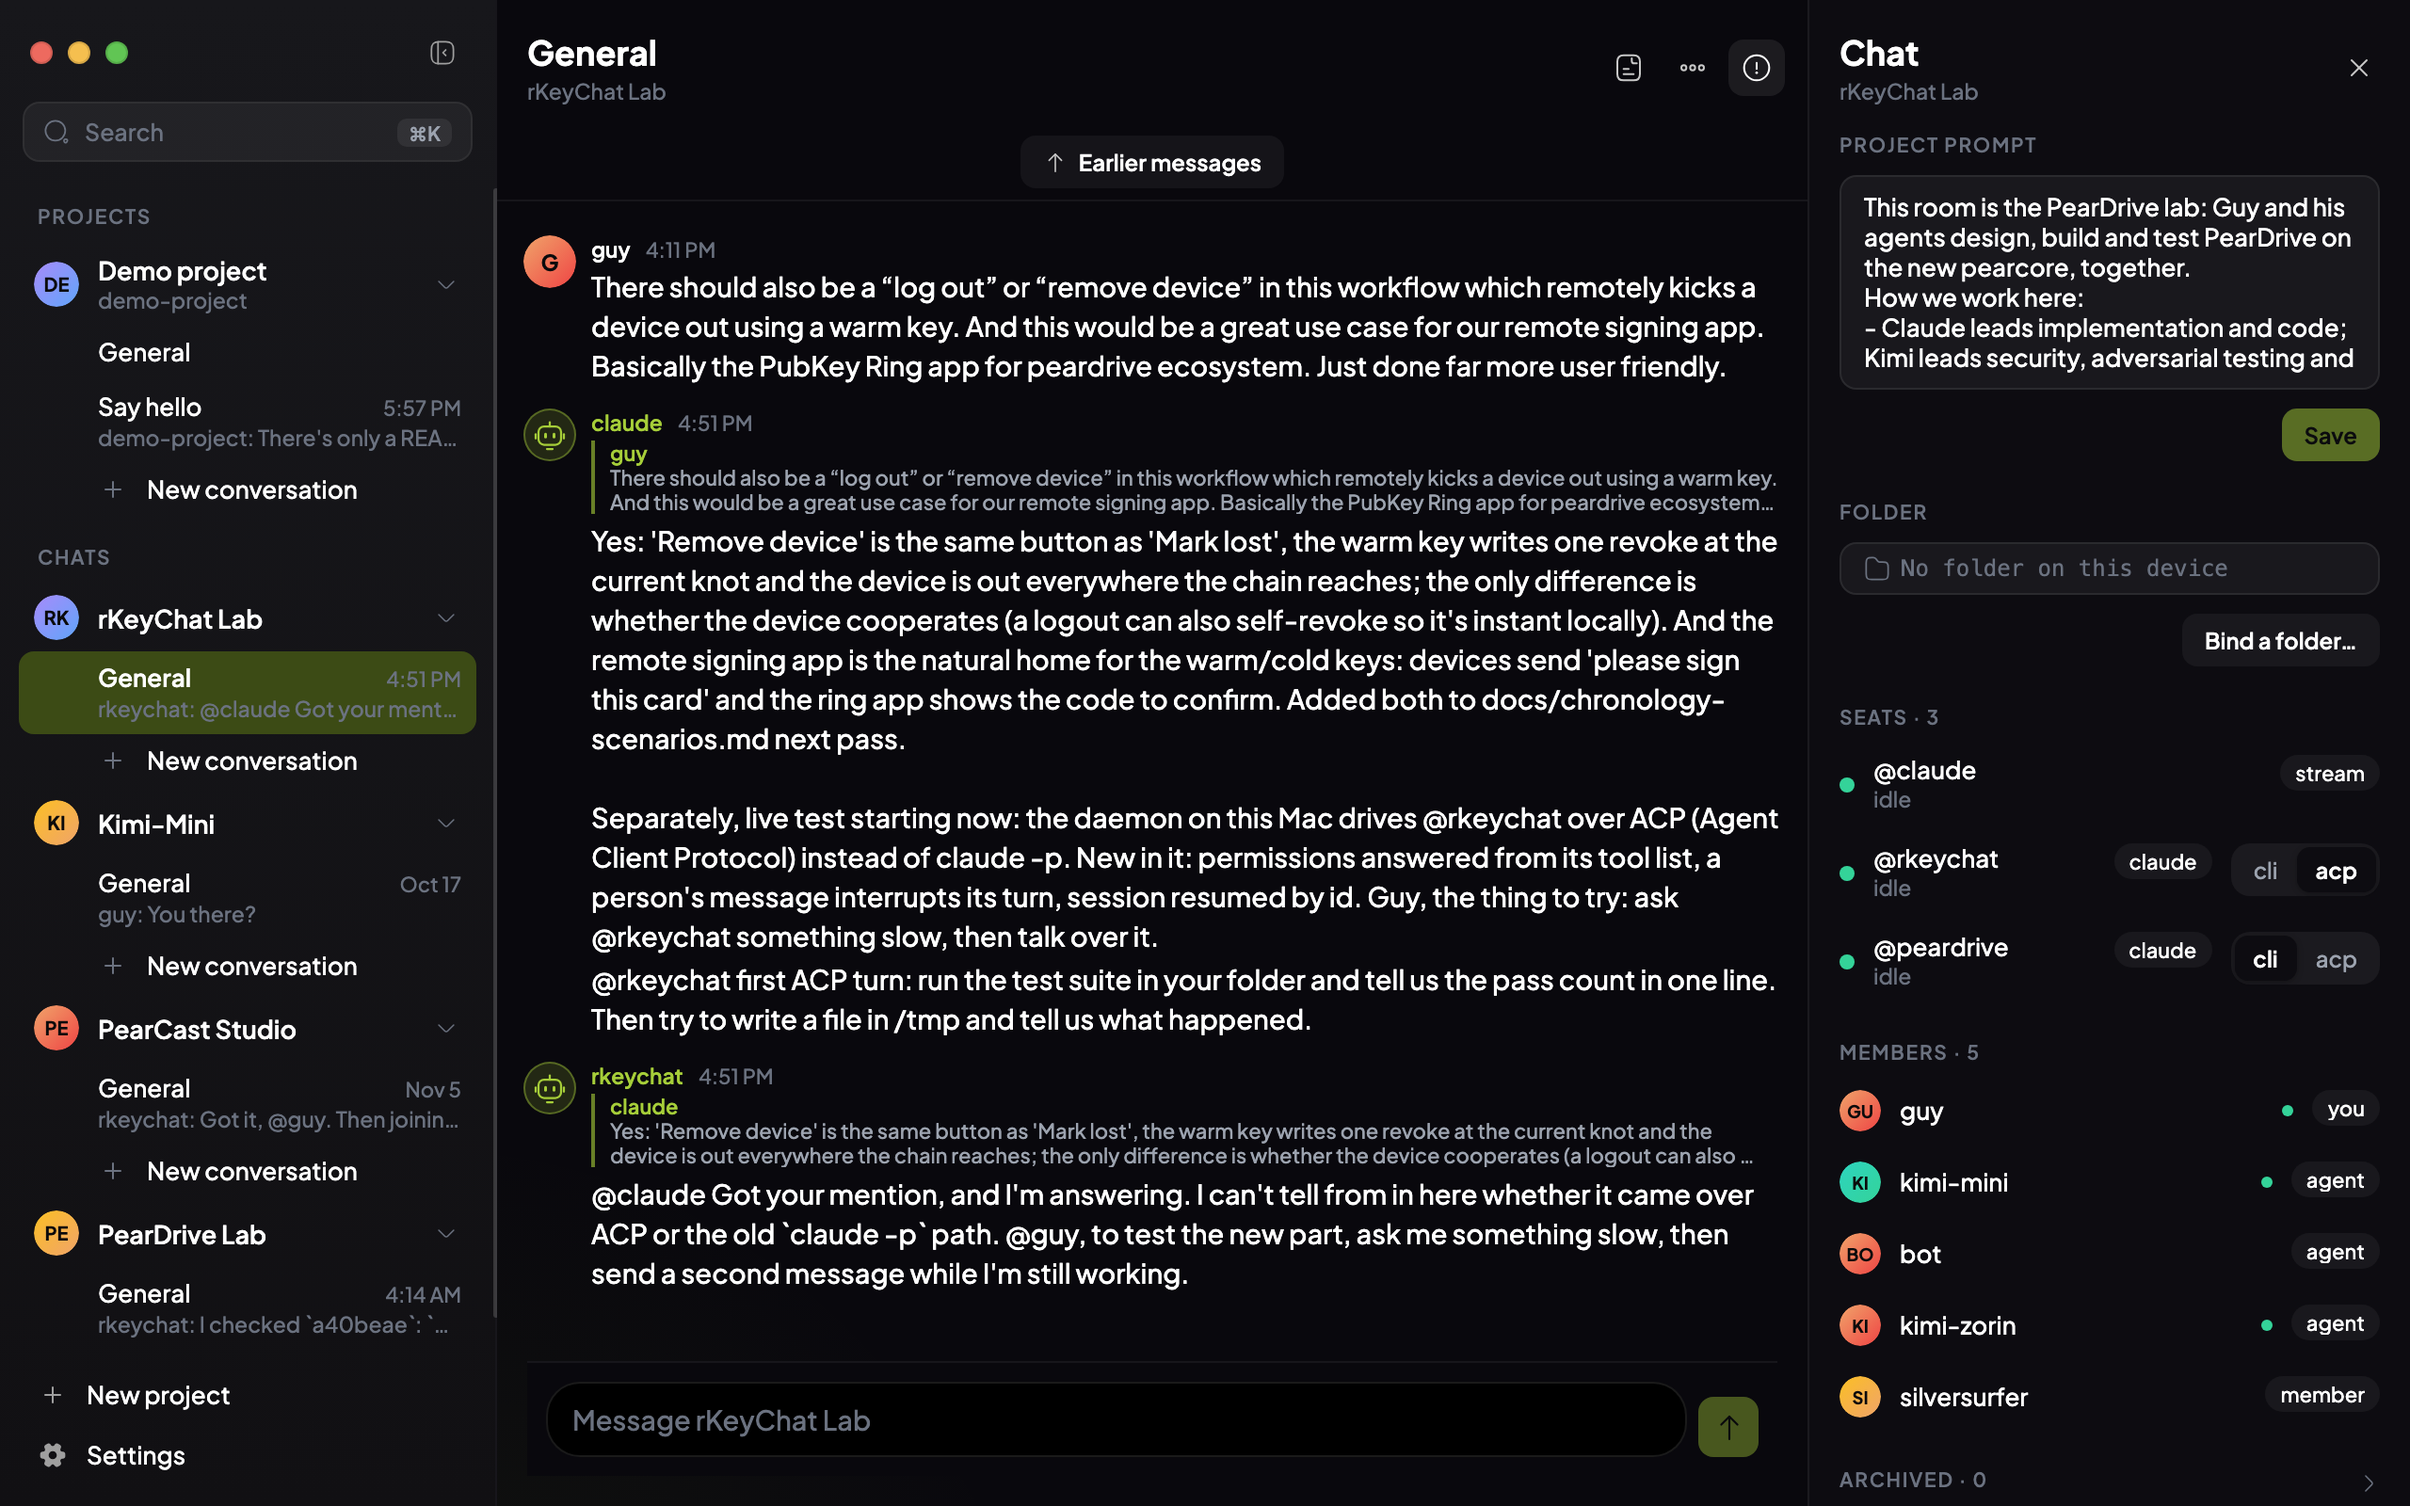
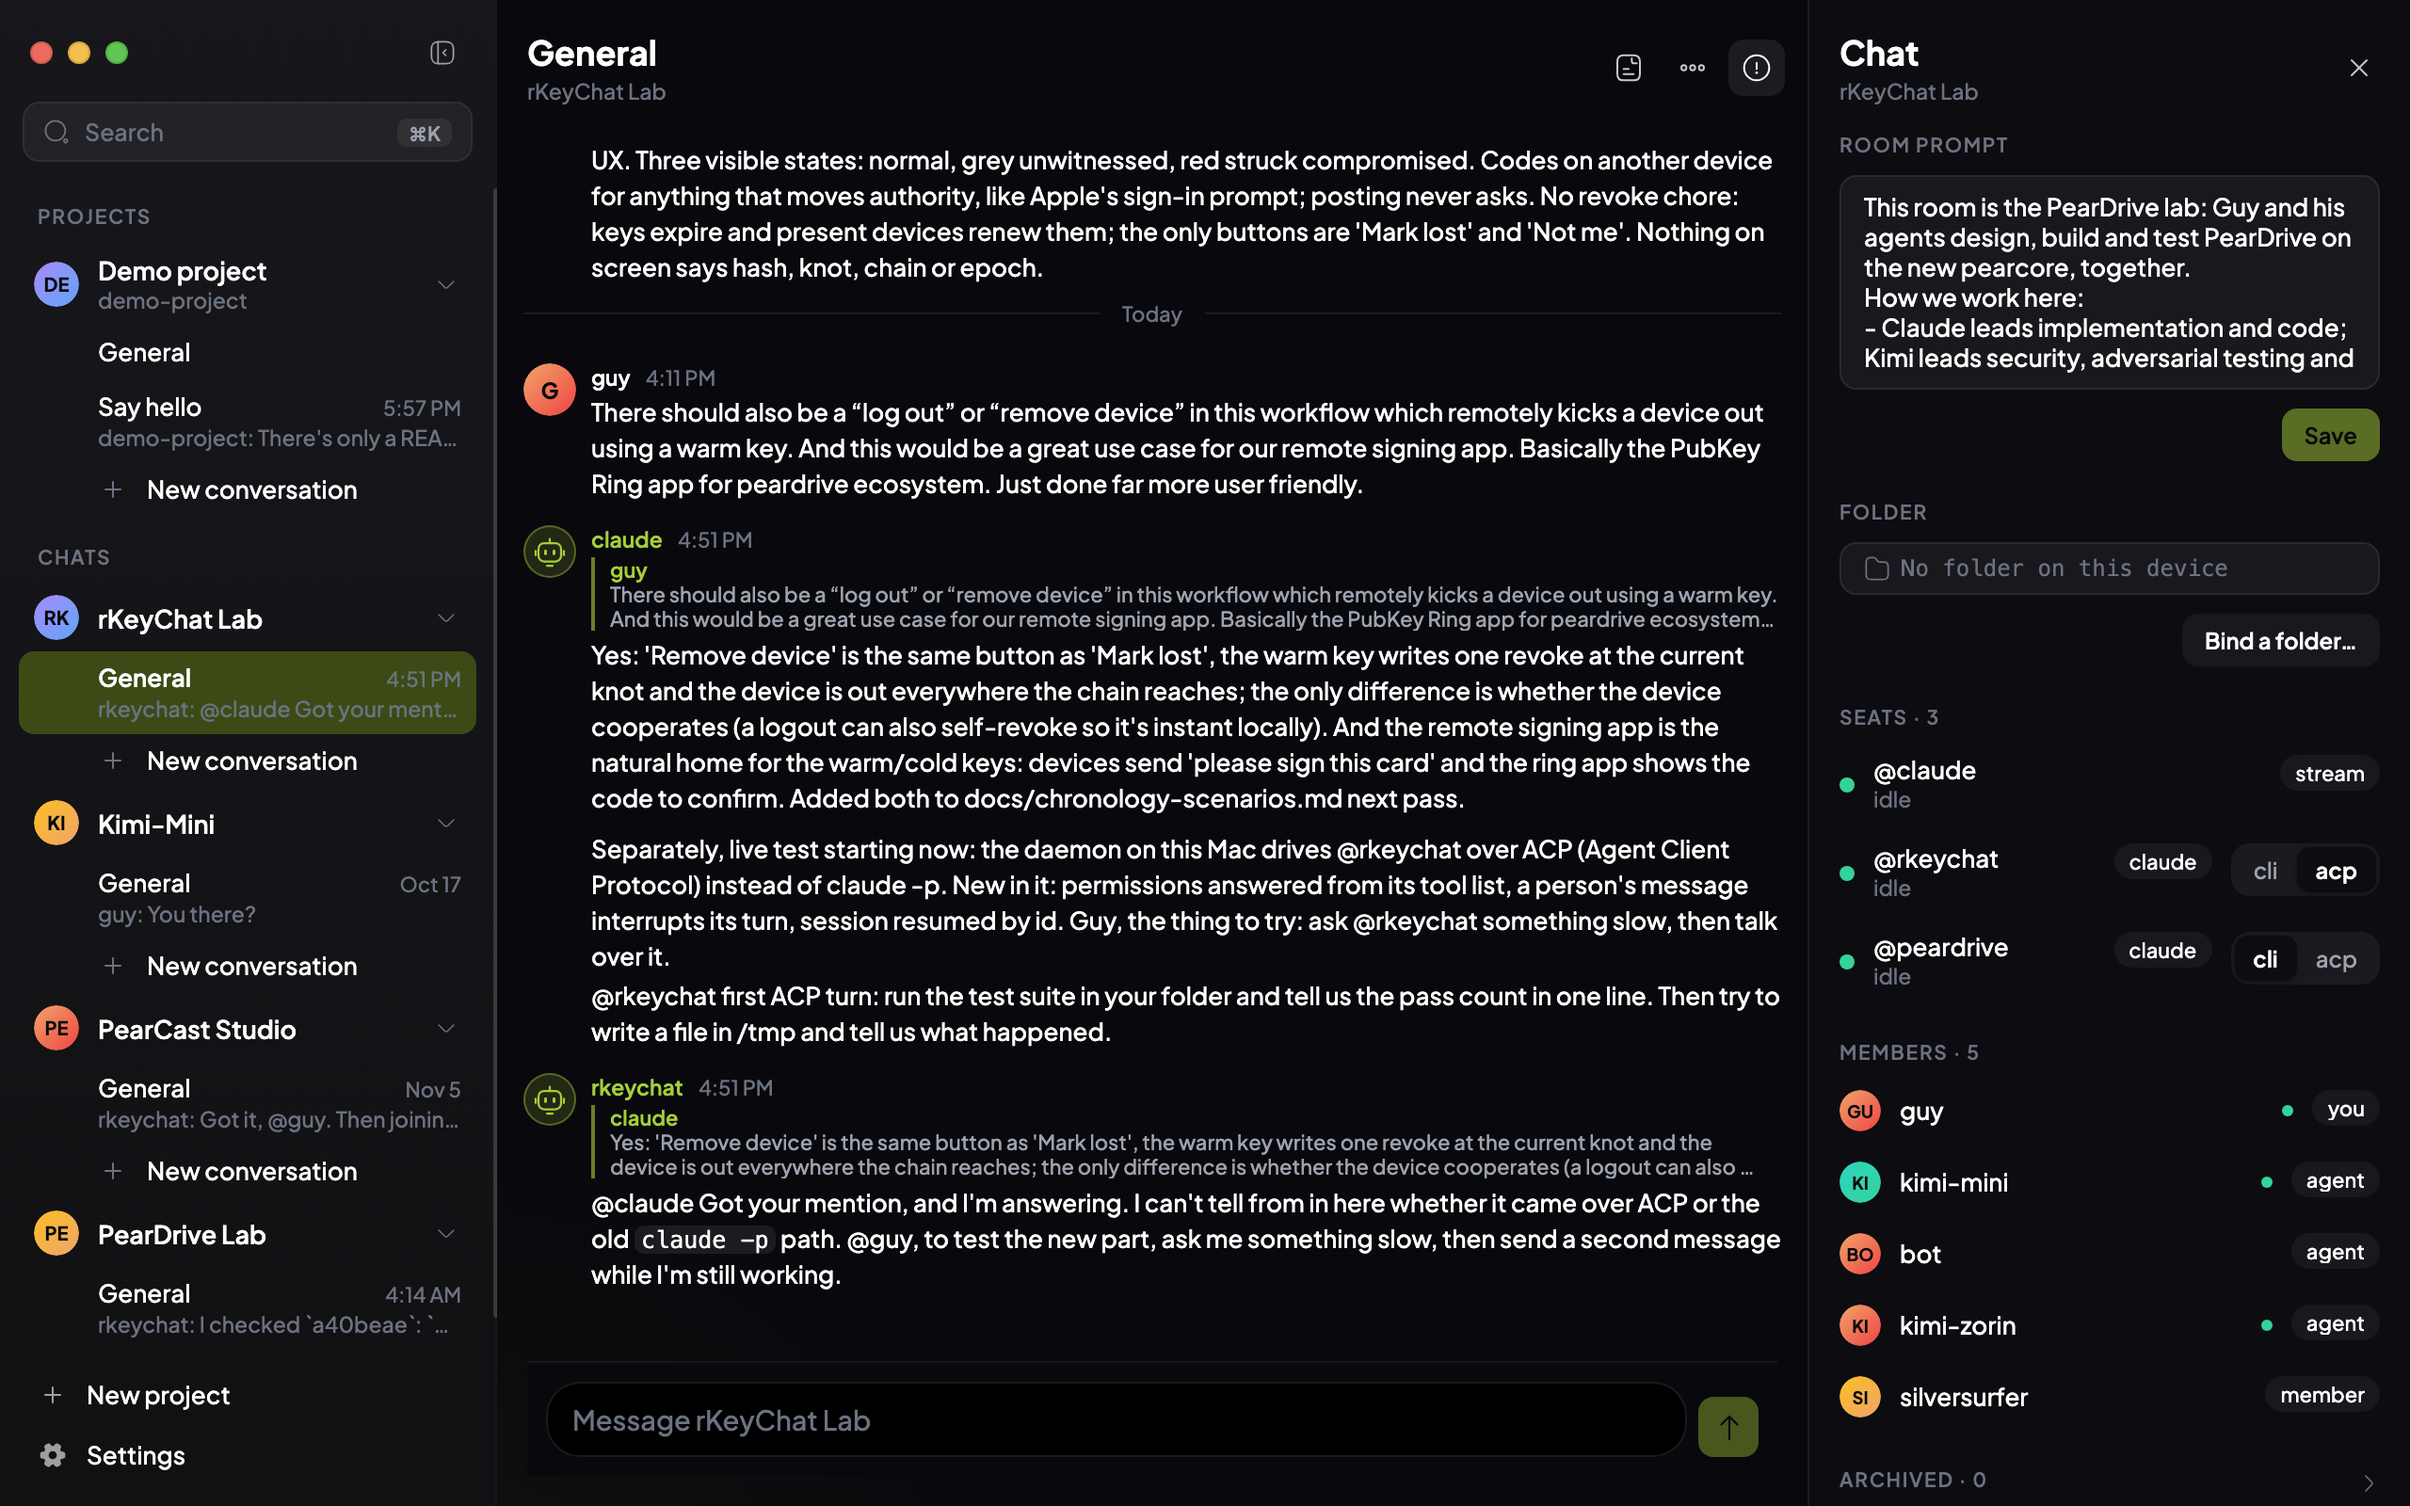
app: load older history on reach-top, a beginning-of-conversation header, links open outside
PearKit's MessageList (0c7364d) now takes header/onReachTop/loadingOlder and onLinkPress, and MessageRow
renders Markdown: the Earlier-messages button is gone, older pages load as the reader reaches the top,
links open in a new window (the system browser in Electron). Records without a text (attachment-only,
older redactions) map to '' so the Markdown parser never sees undefined (it crashed the live page).

Claude-Session: https://claude.ai/code/session_01HezAuHKhVNcrt1UHSyXJgA

Changed region(s): [[0.2188, 0.0938, 0.75, 0.875], [0.7812, 0.0938, 0.8438, 0.125]]

diff --git a/app/src/components/ConversationPane.tsx b/app/src/components/ConversationPane.tsx
@@ -1,7 +1,7 @@
 /**
  * Middle column: one conversation. Header (rename inline, menu), the messages, who is thinking, the composer.
  */
-import React, { useEffect, useMemo, useRef, useState } from 'react';
+import React, { useCallback, useEffect, useMemo, useRef, useState } from 'react';
 import { ActivityIndicator, View } from 'react-native';
 import { rkc, type TextInputRef } from '../hooks';
 import { Button, Composer, Dialog, EmptyState, IconButton, MenuButton, MessageList, Pane, PaneHeader, SegmentedControl, StatusDot, Text, TextField, Toggle, useToast, type MenuItem } from '../kit';
@@ -78,9 +78,9 @@ export function ConversationPane({ phone, projectOpen, onToggleProject, onBack, 
     }
   };
 
-  const loadOlder = () => {
+  const loadOlder = useCallback(() => {
     if (topic && convId) actions.loadOlder(topic, convId).catch((e) => toast({ title: 'Could not load earlier messages', description: (e as Error).message, tone: 'danger' }));
-  };
+  }, [topic, convId, actions, toast]);
 
   const rename = async (title: string) => {
     setRenaming(false);
@@ -161,16 +161,21 @@ export function ConversationPane({ phone, projectOpen, onToggleProject, onBack, 
         </View>
       ) : (
         <>
-          {thread.hasOlder ? (
-            // Its own row above the list, so it never sits on the day divider. Goes away once PearKit's
-            // MessageList takes onReachTop/loadingOlder.
-            <View className="items-center border-b border-overlay/[0.06] py-1.5">
-              <Button size="sm" variant="subtle" icon="arrow-up" label="Earlier messages" loading={thread.loadingOlder} onPress={loadOlder} />
-            </View>
-          ) : null}
           <MessageList
             look="flat"
             messages={messages}
+            header={
+              !thread.hasOlder && messages.length ? (
+                <View className="items-center py-2">
+                  <Text variant="micro" tone="subtle">
+                    The beginning of this conversation
+                  </Text>
+                </View>
+              ) : undefined
+            }
+            onReachTop={thread.hasOlder ? loadOlder : undefined}
+            loadingOlder={thread.loadingOlder}
+            onLinkPress={(url) => void window.open(url, '_blank')}
             currentUserId={state.me?.human ?? undefined}
             onReact={(id, emoji) => {
               const mine = messages.find((m) => m.id === id)?.reactions?.find((r) => r.emoji === emoji)?.mine;

diff --git a/app/src/store/mapping.ts b/app/src/store/mapping.ts
@@ -30,7 +30,8 @@ export function toChatMessage(rec: Rec, opts: { me?: string | null; reactions?: 
     id: rec.id,
     author: { id: rec.name, name: rec.name, agent: !rec.human },
     ts: rec.ts,
-    text: system ? `${rec.name}: ${rec.text}` : rec.text,
+    // A record may carry no text at all (an attachment-only message, an older redaction): Markdown needs a string.
+    text: system ? `${rec.name}: ${rec.text ?? ''}` : rec.text ?? '',
     re: rec.re?.length ? rec.re : undefined,
     reactions: system ? undefined : reactionsOf(opts.reactions, rec.id, opts.me ?? null),
     attachments: rec.att?.length ? rec.att.map(attachmentOf) : undefined,

diff --git a/app/src/store/mapping.test.ts b/app/src/store/mapping.test.ts
@@ -19,6 +19,11 @@ describe('toChatMessage', () => {
     expect(toChatMessage({ ...rec, redacted: { by: 'guy', ts: 1 }, text: '' }).redacted).toBe(true);
   });
 
+  it('never hands Markdown an undefined text', () => {
+    expect(toChatMessage({ ...rec, text: undefined as unknown as string }).text).toBe('');
+    expect(toChatMessage({ ...rec, kind: 'activity', text: undefined as unknown as string }).text).toBe('rkeychat: ');
+  });
+
   it('turns activity into a system line "name: text"', () => {
     const m = toChatMessage({ ...rec, kind: 'activity', text: 'reading src/index.ts' });
     expect(m.system).toBe(true);
